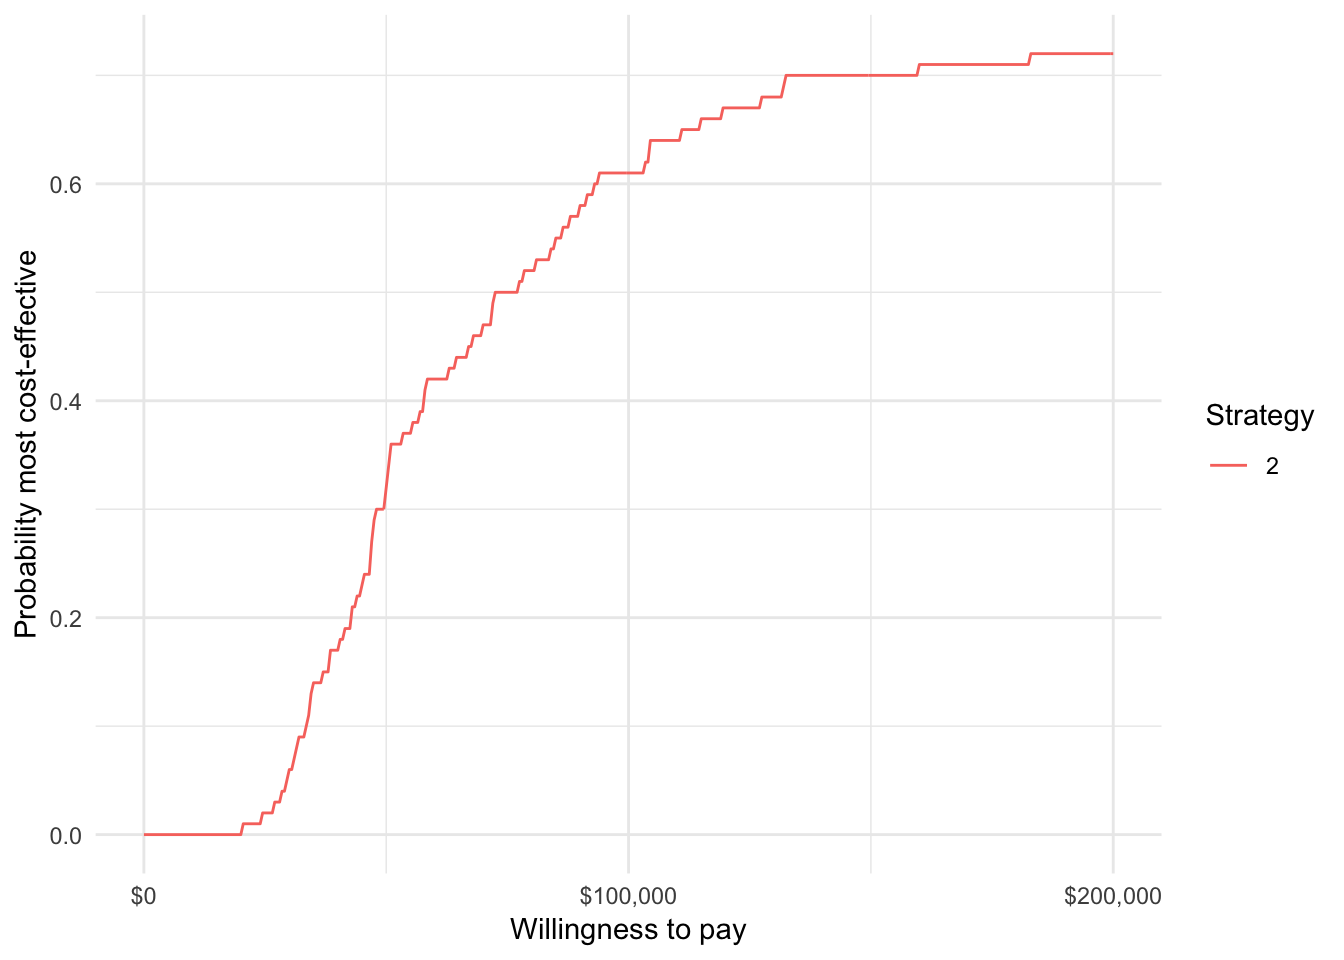
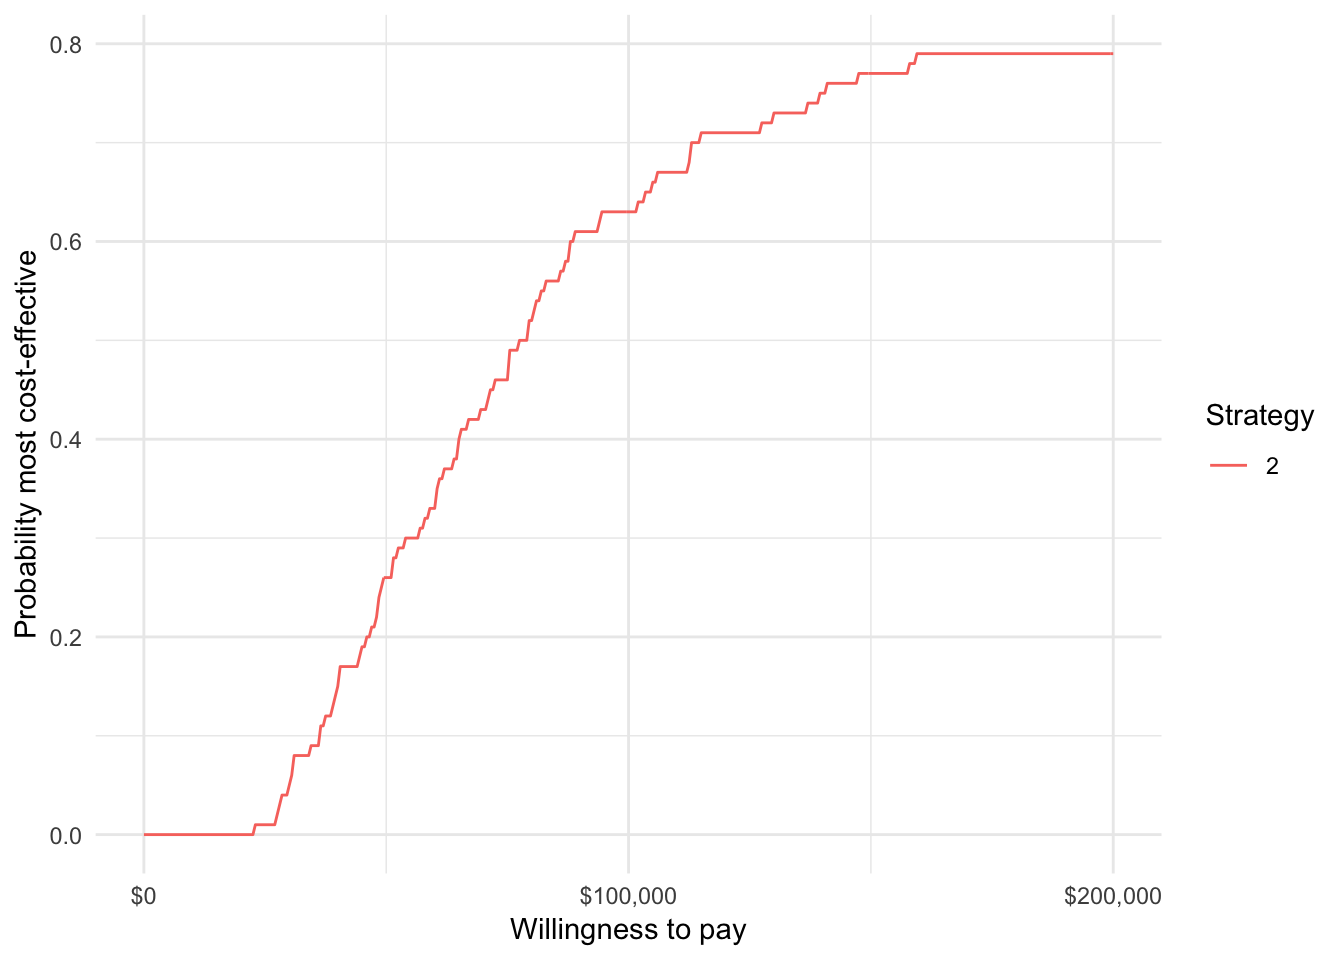
Update package website

diff --git a/docs/articles/intro.html b/docs/articles/intro.html
@@ -83,7 +83,7 @@
       <h1>Introduction to <code>hesim</code>
 </h1>
             
-            <h4 class="date">2019-01-06</h4>
+            <h4 class="date">2019-01-27</h4>
       
       <small class="dont-index">Source: <a href="https://github.com/InnovationValueInitiative/hesim/blob/master/vignettes/intro.Rmd"><code>vignettes/intro.Rmd</code></a></small>
       <div class="hidden name"><code>intro.Rmd</code></div>
@@ -96,7 +96,7 @@
 <h1 class="hasAnchor">
 <a href="#overview" class="anchor"></a><span class="header-section-number">1</span> Overview</h1>
 <p><code>hesim</code> is an R package for health-economic simulation modeling that is naturally integrated with statistical modeling and provides support for decision analysis.</p>
-<p>Both cohort and individual-level economic models are supported. Cohort-level models simulate a representative cohorts of patients with similar characteristics while individual-level models simulate individual patients probabilistically using random number generation. The models are implemented as <a href="https://r6.r-lib.org/index.html">R6</a> classes and have methods for simulating disease progression, costs, and QALYs. Models that are currently available are shown in the table below.</p>
+<p>As shown in the table below, N-state partitioned survival models (PSMs) and individual-level continuous time state transition models (iCTSTMs) are currently supported. The PSM is a cohort-level model that simulates representative cohorts of patients with similar characteristics while the iCTSTM simulates individual patients probabilistically using random number generation. The models are implemented as <a href="https://r6.r-lib.org/index.html">R6</a> classes and have methods for simulating disease progression, costs, and QALYs. We expected to add cohort-level state transition models in the near future.</p>
 <table class="table">
 <thead><tr class="header">
 <th align="left">Economic model</th>
@@ -113,7 +113,6 @@
 </tr>
 </tbody>
 </table>
-<p>(<em>Note that the package is under active development and we expect to add cohort-level continuous time state transition models (cCTSTMs) and cohort-level discrete time state transition models (cDTSTMs) in early 2019.</em>)</p>
 <p>An economic model is constructed by combining statistical models for disease progression, costs, and utilities. As shown in the figure, a typical analysis proceeds in a 3-step process as follows:</p>
 <p><br><img src="econ-eval-process-hesim.png" width="600px"><br><br></p>
 <ol style="list-style-type: decimal">
@@ -157,17 +156,17 @@ hesim_dat &lt;-<span class="st"> </span><span class="kw"><a href="../reference/h
 ## 
 ## $patients
 ##       patient_id      age female
-##    1:          1 57.73114      1
-##    2:          2 39.84330      0
-##    3:          3 53.41989      0
-##    4:          4 40.23161      1
-##    5:          5 47.20005      1
+##    1:          1 47.48513      0
+##    2:          2 37.52144      1
+##    3:          3 39.72936      1
+##    4:          4 54.97555      0
+##    5:          5 46.85667      0
 ##   ---                           
-##  996:        996 46.67660      1
-##  997:        997 47.34884      1
-##  998:        998 47.32818      1
-##  999:        999 46.05175      1
-## 1000:       1000 46.79359      0
+##  996:        996 61.77598      1
+##  997:        997 26.32598      1
+##  998:        998 52.15304      0
+##  999:        999 49.65897      1
+## 1000:       1000 41.60043      0
 ## 
 ## $states
 ##    state_id state_name
@@ -311,12 +310,12 @@ medcost_tbl &lt;-<span class="st"> </span><span class="kw"><a href="../reference
                         <span class="dt">by =</span> <span class="kw">c</span>(<span class="st">"strategies"</span>, <span class="st">"patients"</span>, <span class="st">"transitions"</span>))
 <span class="kw">head</span>(transmod_data)</code></pre></div>
 <pre><code>##    strategy_id patient_id transition_id      age female from to from_name
-## 1:           1          1             1 57.73114      1    1  2   Healthy
-## 2:           1          1             2 57.73114      1    1  3   Healthy
-## 3:           1          1             3 57.73114      1    2  1      Sick
-## 4:           1          1             4 57.73114      1    2  3      Sick
-## 5:           1          2             1 39.84330      0    1  2   Healthy
-## 6:           1          2             2 39.84330      0    1  3   Healthy
+## 1:           1          1             1 47.48513      0    1  2   Healthy
+## 2:           1          1             2 47.48513      0    1  3   Healthy
+## 3:           1          1             3 47.48513      0    2  1      Sick
+## 4:           1          1             4 47.48513      0    2  3      Sick
+## 5:           1          2             1 37.52144      1    1  2   Healthy
+## 6:           1          2             2 37.52144      1    1  3   Healthy
 ##    to_name trans
 ## 1:    Sick     1
 ## 2:    Dead     2
@@ -390,44 +389,44 @@ costmods &lt;-<span class="st"> </span><span class="kw">list</span>(<span class=
 <p>We illustrate with the iCTSTM. First we simulate disease progression for each patient.</p>
 <div class="sourceCode"><pre class="sourceCode r"><code class="sourceCode r">ictstm<span class="op">$</span><span class="kw">sim_disease</span>()
 <span class="kw">head</span>(ictstm<span class="op">$</span>disprog_)</code></pre></div>
-<pre><code>##    sample strategy_id patient_id from to final time_start   time_stop
-## 1:      1           1          1    1  3     1  0.0000000  0.30989260
-## 2:      1           1          2    1  2     0  0.0000000  0.03166140
-## 3:      1           1          2    2  3     1  0.0316614  0.03187639
-## 4:      1           1          3    1  2     0  0.0000000  9.81592126
-## 5:      1           1          3    2  3     1  9.8159213 10.44197034
-## 6:      1           1          4    1  2     0  0.0000000  4.71321828</code></pre>
+<pre><code>##    sample strategy_id patient_id from to final time_start time_stop
+## 1:      1           1          1    1  2     0  0.0000000 0.7804218
+## 2:      1           1          1    2  1     0  0.7804218 0.9749034
+## 3:      1           1          1    1  2     0  0.9749034 1.0722773
+## 4:      1           1          1    2  1     0  1.0722773 1.2546012
+## 5:      1           1          1    1  3     1  1.2546012 7.8449528
+## 6:      1           1          2    1  3     1  0.0000000 0.5409274</code></pre>
 <p>The disease trajectory can be summarized with <code>$sim_stateprobs()</code>.</p>
 <div class="sourceCode"><pre class="sourceCode r"><code class="sourceCode r">ictstm<span class="op">$</span><span class="kw">sim_stateprobs</span>(<span class="dt">t =</span> <span class="kw">c</span>(<span class="dv">0</span><span class="op">:</span><span class="dv">10</span>))
 <span class="kw">head</span>(ictstm<span class="op">$</span>stateprobs_)</code></pre></div>
 <pre><code>##    sample strategy_id state_id t  prob
 ## 1:      1           1        1 0 1.000
-## 2:      1           1        1 1 0.706
-## 3:      1           1        1 2 0.592
-## 4:      1           1        1 3 0.507
-## 5:      1           1        1 4 0.451
-## 6:      1           1        1 5 0.400</code></pre>
+## 2:      1           1        1 1 0.650
+## 3:      1           1        1 2 0.553
+## 4:      1           1        1 3 0.489
+## 5:      1           1        1 4 0.441
+## 6:      1           1        1 5 0.405</code></pre>
 <p>We can then compute costs and QALYs (using a discount rate of 3 percent).</p>
 <div class="sourceCode"><pre class="sourceCode r"><code class="sourceCode r"><span class="co"># QALYs</span>
 ictstm<span class="op">$</span><span class="kw">sim_qalys</span>(<span class="dt">dr =</span> .<span class="dv">03</span>)
 <span class="kw">head</span>(ictstm<span class="op">$</span>qalys_)</code></pre></div>
-<pre><code>##    sample strategy_id state_id   dr    qalys      lys
-## 1:      1           1        1 0.03 3.576253 5.193811
-## 2:      1           1        2 0.03 1.137729 1.137729
-## 3:      1           2        1 0.03 4.791236 6.958337
-## 4:      1           2        2 0.03 1.073530 1.073531
-## 5:      2           1        1 0.03 3.747483 5.142911
-## 6:      2           1        2 0.03 1.024548 1.169795</code></pre>
+<pre><code>##    sample strategy_id state_id   dr    qalys       lys
+## 1:      1           1        1 0.03 4.376315 5.0452431
+## 2:      1           1        2 0.03 1.083490 1.1664855
+## 3:      1           2        1 0.03 5.343584 6.1603616
+## 4:      1           2        2 0.03 0.825479 0.8887111
+## 5:      2           1        1 0.03 3.828712 4.3396741
+## 6:      2           1        2 0.03 1.069752 1.2785318</code></pre>
 <div class="sourceCode"><pre class="sourceCode r"><code class="sourceCode r"><span class="co"># Costs</span>
 ictstm<span class="op">$</span><span class="kw">sim_costs</span>(<span class="dt">dr =</span> .<span class="dv">03</span>)
 <span class="kw">head</span>(ictstm<span class="op">$</span>costs_)</code></pre></div>
 <pre><code>##    sample strategy_id state_id   dr category     costs
-## 1:      1           1        1 0.03    drugs 25969.054
-## 2:      1           1        2 0.03    drugs  5688.647
-## 3:      1           2        1 0.03    drugs 69583.369
-## 4:      1           2        2 0.03    drugs 10735.311
-## 5:      2           1        1 0.03    drugs 25714.555
-## 6:      2           1        2 0.03    drugs  5848.975</code></pre>
+## 1:      1           1        1 0.03    drugs 25226.215
+## 2:      1           1        2 0.03    drugs  5832.427
+## 3:      1           2        1 0.03    drugs 61603.616
+## 4:      1           2        2 0.03    drugs  8887.111
+## 5:      2           1        1 0.03    drugs 21698.371
+## 6:      2           1        2 0.03    drugs  6392.659</code></pre>
 </div>
 </div>
 <div id="decision-analysis" class="section level1">
@@ -439,31 +438,31 @@ ictstm<span class="op">$</span><span class="kw">sim_costs</span>(<span class="dt
 <span class="kw">print</span>(ce)</code></pre></div>
 <pre><code>## $costs
 ##      category   dr sample strategy_id    costs
-##   1:    drugs 0.03      1           1 31657.70
-##   2:    drugs 0.03      1           2 80318.68
-##   3:    drugs 0.03      2           1 31563.53
-##   4:    drugs 0.03      2           2 60147.09
-##   5:    drugs 0.03      3           1 28450.54
+##   1:    drugs 0.03      1           1 31058.64
+##   2:    drugs 0.03      1           2 70490.73
+##   3:    drugs 0.03      2           1 28091.03
+##   4:    drugs 0.03      2           2 67389.84
+##   5:    drugs 0.03      3           1 25415.93
 ##  ---                                          
-## 596:    total 0.03     98           2 73457.72
-## 597:    total 0.03     99           1 40122.22
-## 598:    total 0.03     99           2 84297.60
-## 599:    total 0.03    100           1 33359.24
-## 600:    total 0.03    100           2 82017.28
+## 596:    total 0.03     98           2 85803.50
+## 597:    total 0.03     99           1 34002.32
+## 598:    total 0.03     99           2 80692.16
+## 599:    total 0.03    100           1 33287.80
+## 600:    total 0.03    100           2 71927.35
 ## 
 ## $qalys
 ##        dr sample strategy_id    qalys
-##   1: 0.03      1           1 4.713982
-##   2: 0.03      1           2 5.864766
-##   3: 0.03      2           1 4.772031
-##   4: 0.03      2           2 4.483482
-##   5: 0.03      3           1 4.774052
+##   1: 0.03      1           1 5.459804
+##   2: 0.03      1           2 6.169063
+##   3: 0.03      2           1 4.898464
+##   4: 0.03      2           2 5.902646
+##   5: 0.03      3           1 4.178738
 ##  ---                                 
-## 196: 0.03     98           2 4.968371
-## 197: 0.03     99           1 3.578335
-## 198: 0.03     99           2 3.777744
-## 199: 0.03    100           1 4.610145
-## 200: 0.03    100           2 6.162716
+## 196: 0.03     98           2 4.405563
+## 197: 0.03     99           1 3.778720
+## 198: 0.03     99           2 4.691968
+## 199: 0.03    100           1 4.215020
+## 200: 0.03    100           2 5.005274
 ## 
 ## attr(,"class")
 ## [1] "ce"</code></pre>

diff --git a/docs/index.html b/docs/index.html
@@ -93,7 +93,7 @@
 <div id="overview" class="section level1">
 <div class="page-header"><h1 class="hasAnchor">
 <a href="#overview" class="anchor"></a>Overview</h1></div>
-<p><code>hesim</code> is an R package for health economic simulation modeling and decision analysis that provides a general framework for integrating statistical analyses with economic evaluation. The package currently supports N-state partitioned survival models (PSMs) and individual-level continuous time state transition models (CTSTMs), as well as summarizing the output of probabilistic sensitivity analysis (PSA). It is designed for high performance simulation modeling and heavily utilizes <code>Rcpp</code> and <code>data.table</code>. <code>hesim</code> is being actively developed and we will provide support for discrete time state transition models (DTSTMs) and cohort-level CTSTMs in the near future. We expect to release a stable version in the beginning of January.</p>
+<p><code>hesim</code> is an R package for health economic simulation modeling and decision analysis that provides a general framework for integrating statistical analyses with economic evaluation. The package currently supports N-state partitioned survival models (PSMs) and individual-level continuous time state transition models (CTSTMs), as well as summarizing the output of probabilistic sensitivity analysis (PSA). It is designed for high performance simulation modeling and heavily utilizes <code>Rcpp</code> and <code>data.table</code>. <code>hesim</code> is being actively developed and we will provide support for cohort-level state transition models in the near future.</p>
 <p>Features of the current version include:</p>
 <ul>
 <li>N-state PSMs and individual-level CTSTMs</li>

diff --git a/docs/articles/psm.html b/docs/articles/psm.html
@@ -82,7 +82,7 @@
     <div class="page-header toc-ignore">
       <h1>Partitioned survival models</h1>
             
-            <h4 class="date">2019-01-06</h4>
+            <h4 class="date">2019-01-27</h4>
       
       <small class="dont-index">Source: <a href="https://github.com/InnovationValueInitiative/hesim/blob/master/vignettes/psm.Rmd"><code>vignettes/psm.Rmd</code></a></small>
       <div class="hidden name"><code>psm.Rmd</code></div>

diff --git a/README.md b/README.md
@@ -3,7 +3,7 @@
 [![CRAN_Status_Badge](http://www.r-pkg.org/badges/version/hesim)](https://cran.r-project.org/package=hesim)
 
 # Overview
-`hesim` is an R package for health economic simulation modeling and decision analysis that provides a general framework for integrating statistical analyses with economic evaluation. The package currently supports N-state partitioned survival models (PSMs) and individual-level continuous time state transition models (CTSTMs), as well as summarizing the output of probabilistic sensitivity analysis (PSA). It is designed for high performance simulation modeling and heavily utilizes `Rcpp` and `data.table`. `hesim` is being actively developed and we will provide support for discrete time state transition models (DTSTMs) and cohort-level CTSTMs in the near future. We expect to release a stable version in the beginning of January.
+`hesim` is an R package for health economic simulation modeling and decision analysis that provides a general framework for integrating statistical analyses with economic evaluation. The package currently supports N-state partitioned survival models (PSMs) and individual-level continuous time state transition models (CTSTMs), as well as summarizing the output of probabilistic sensitivity analysis (PSA). It is designed for high performance simulation modeling and heavily utilizes `Rcpp` and `data.table`. `hesim` is being actively developed and we will provide support for cohort-level state transition models in the near future. 
 
 Features of the current version include:
 
